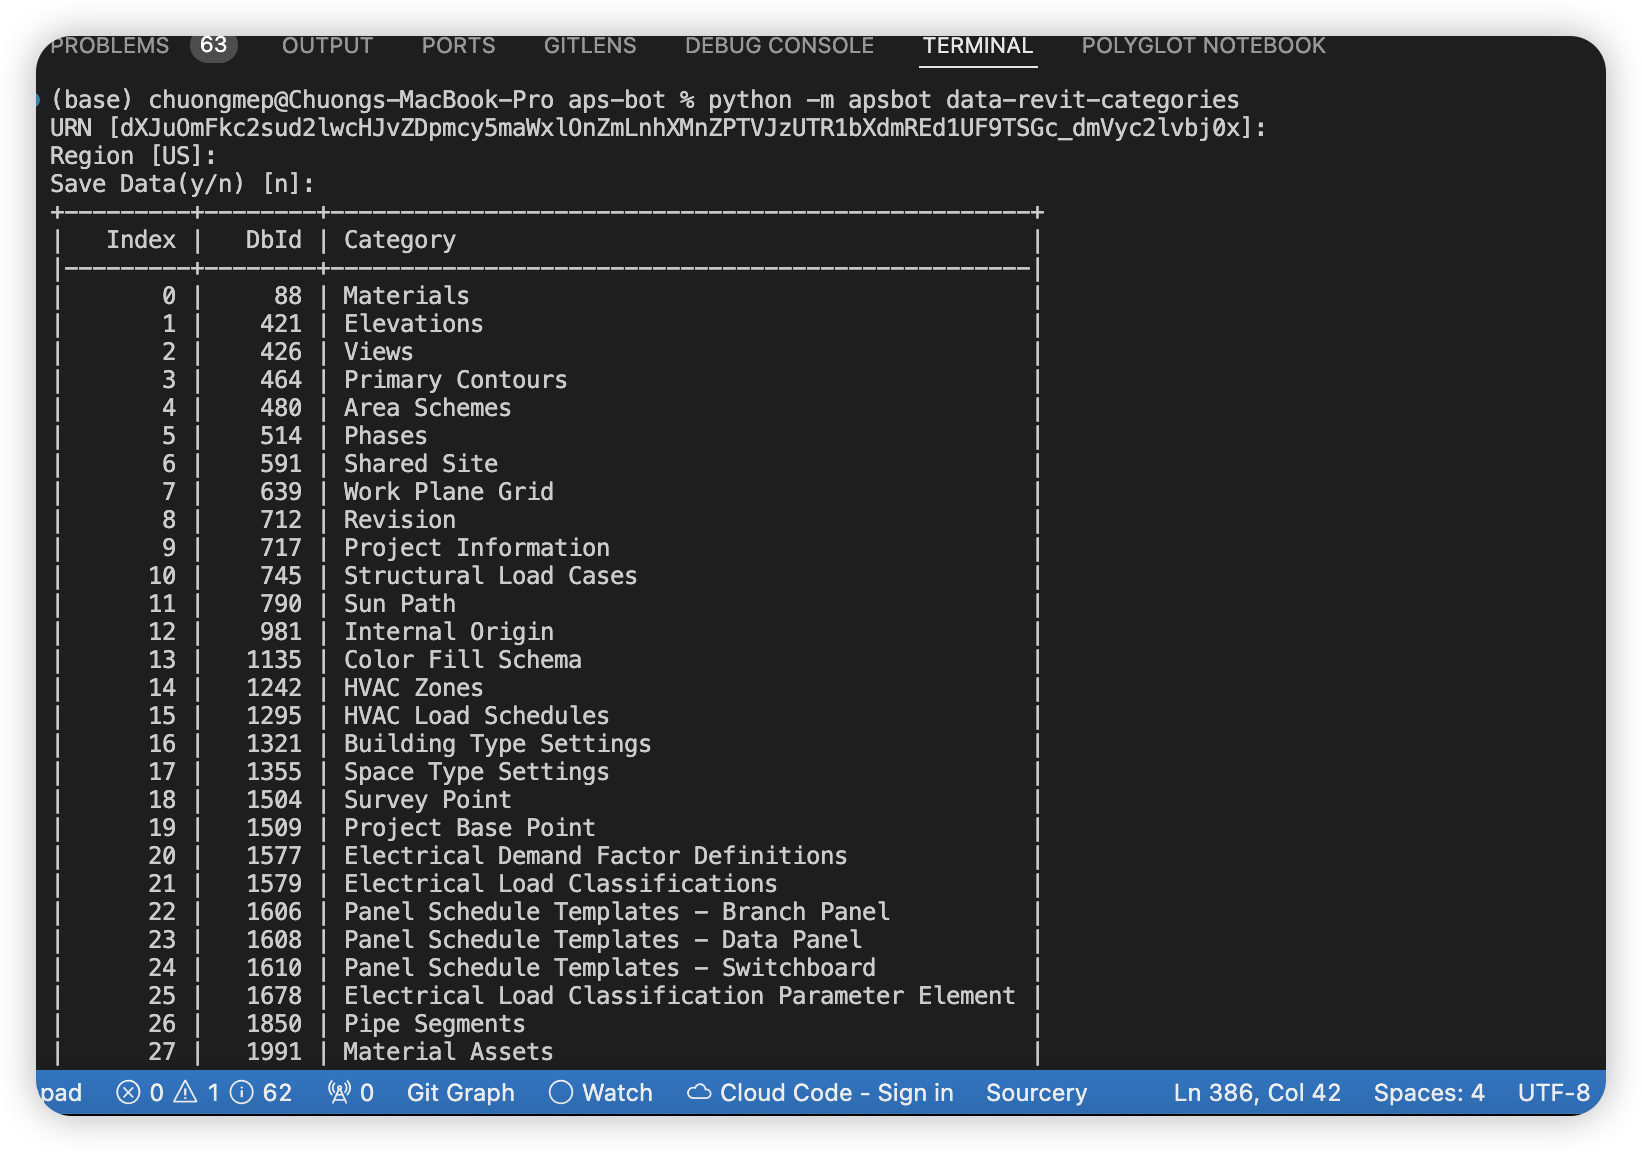
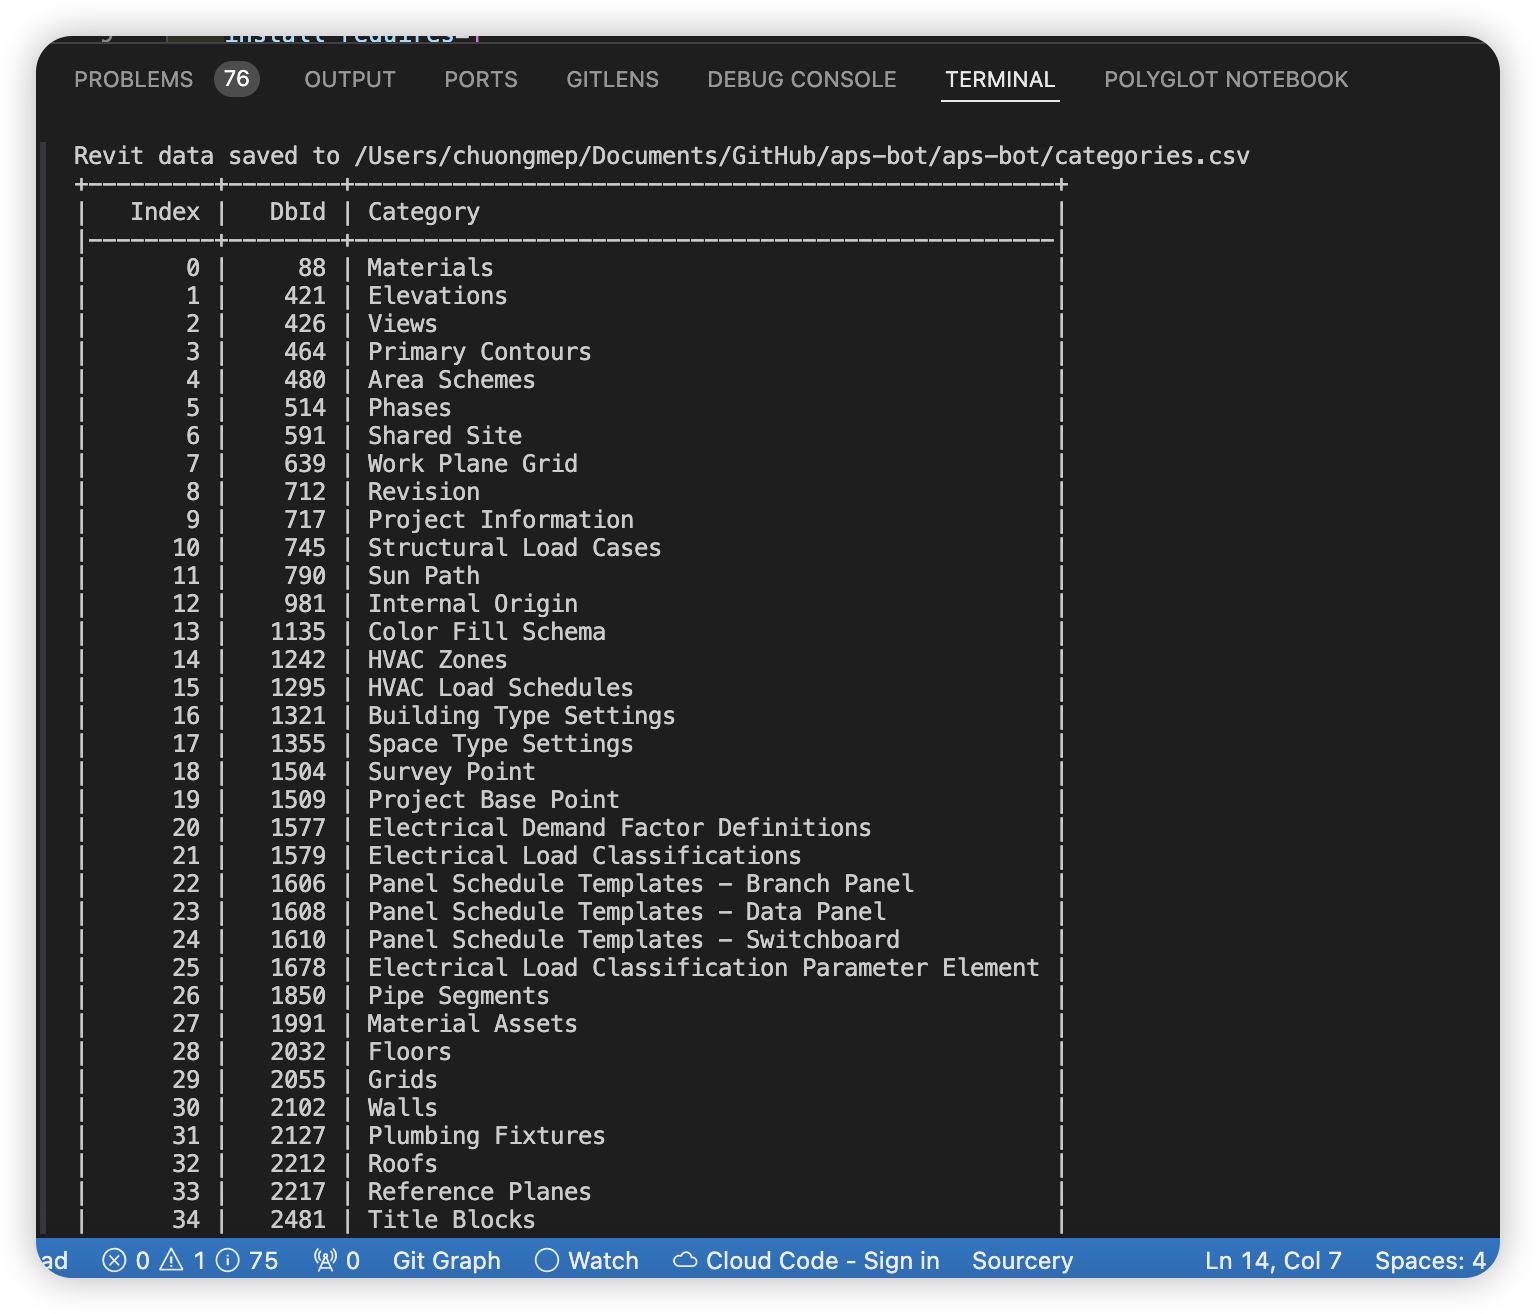
update demo

Changed region(s): [[0.0, 0.0, 1.0, 1.0]]

diff --git a/README.md b/README.md
@@ -105,6 +105,10 @@ python -m apsbot get-top-folder --hub_id <hubid> --project_id <projectid>
 
 ![](docs/item-version.png)
 
+### Categories
+
+![](docs/categories.png)
+
 ## Developer Collaboration
 
 
